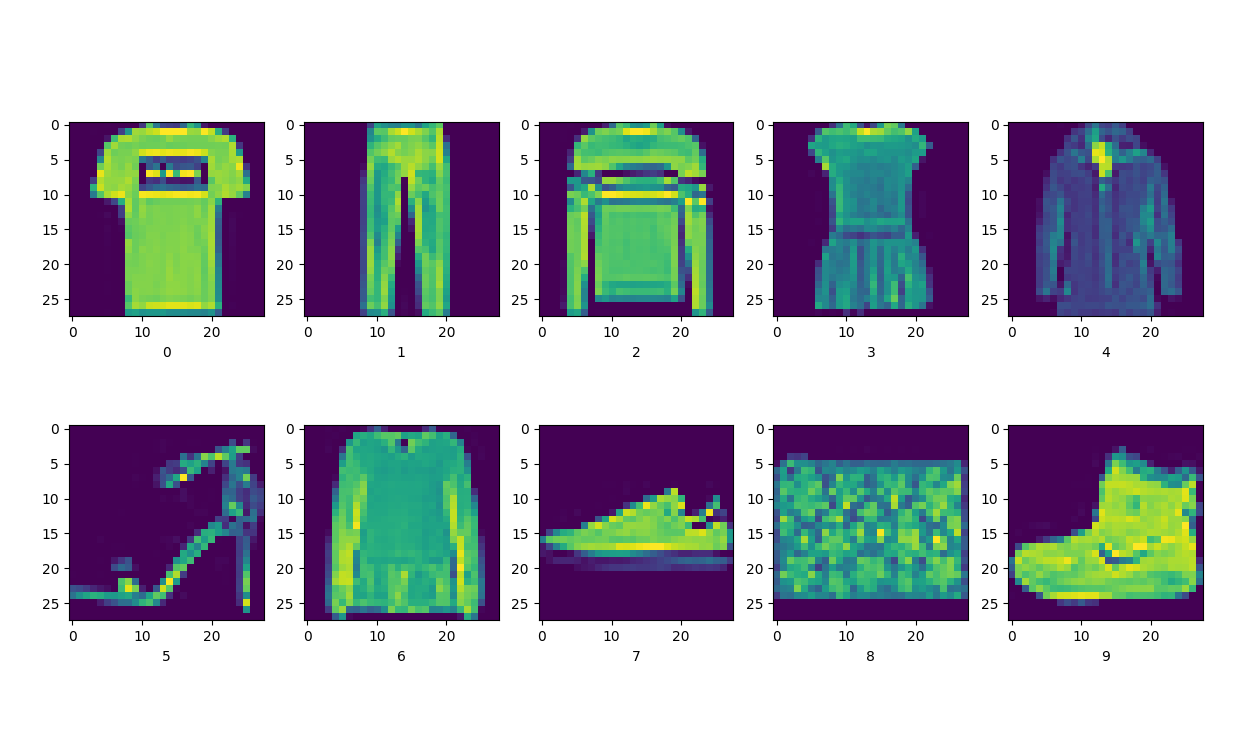
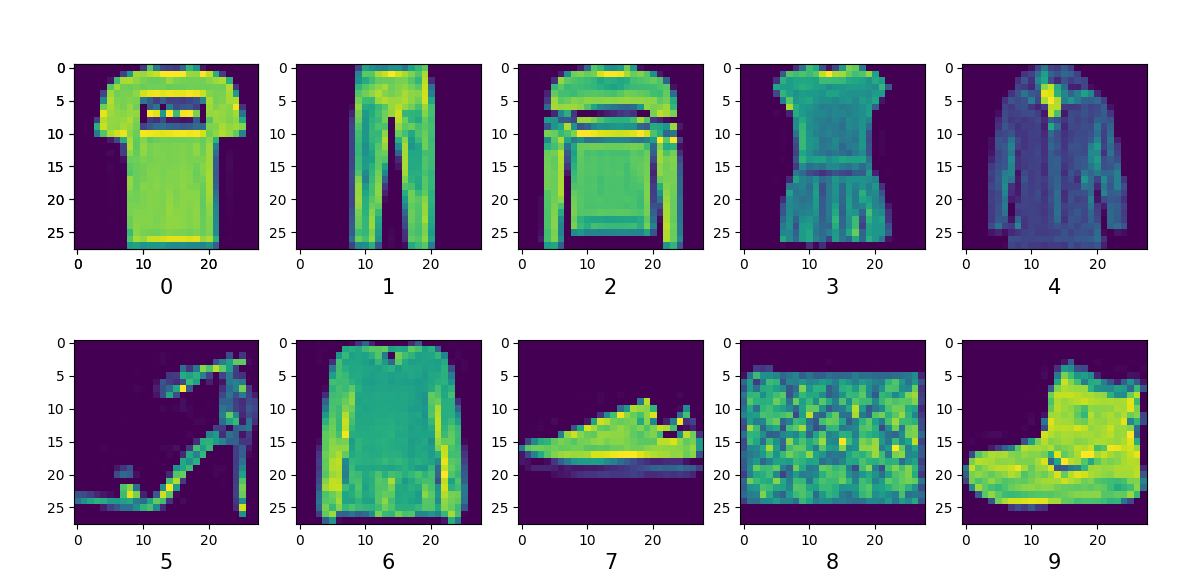
Stage0: Some refinements in plots and gray scale

diff --git a/Assignment1/dataPreprocessing.py b/Assignment1/dataPreprocessing.py
@@ -12,18 +12,19 @@ img_classes_fig = plt.figure("The image classes")
 grid_specification = img_classes_fig.add_gridspec(2,5)
 
 num_classes = int(np.max(trainOut) + 1)
+class_dictionary = {"0":"T-shirt/Top","1":"Trouser","2":"Pullover","3":"Dress","4":"Coat","5":"Sandal","6":"Shirt","7":"Sneaker","8":"Bag","9":"Ankle Boot"}
 ctr = 0
 for i in range(num_classes):
     for j in range(trainIn.shape[0]):
         if trainOut[j] == i and i < 5:
             globals()["ax"+str(i+1)]=img_classes_fig.add_subplot(grid_specification[0,i]) 
-            plt.imshow(trainIn[j])
-            plt.label(str(i))
+            plt.imshow(trainIn[j], cmap = 'gray')
+            plt.xlabel(class_dictionary[str(i)], fontsize = 15)
             break
         elif trainOut[j] == i and i >= 5:
             globals()["ax"+str(5 + i + 1)]=img_classes_fig.add_subplot(grid_specification[1,i-5]) 
-            plt.imshow(trainIn[j])
-            plt.label(str(i))
+            plt.imshow(trainIn[j], cmap = 'gray')
+            plt.xlabel(class_dictionary[str(i)], fontsize = 15)
             break            
 
- 
+plt.show()
